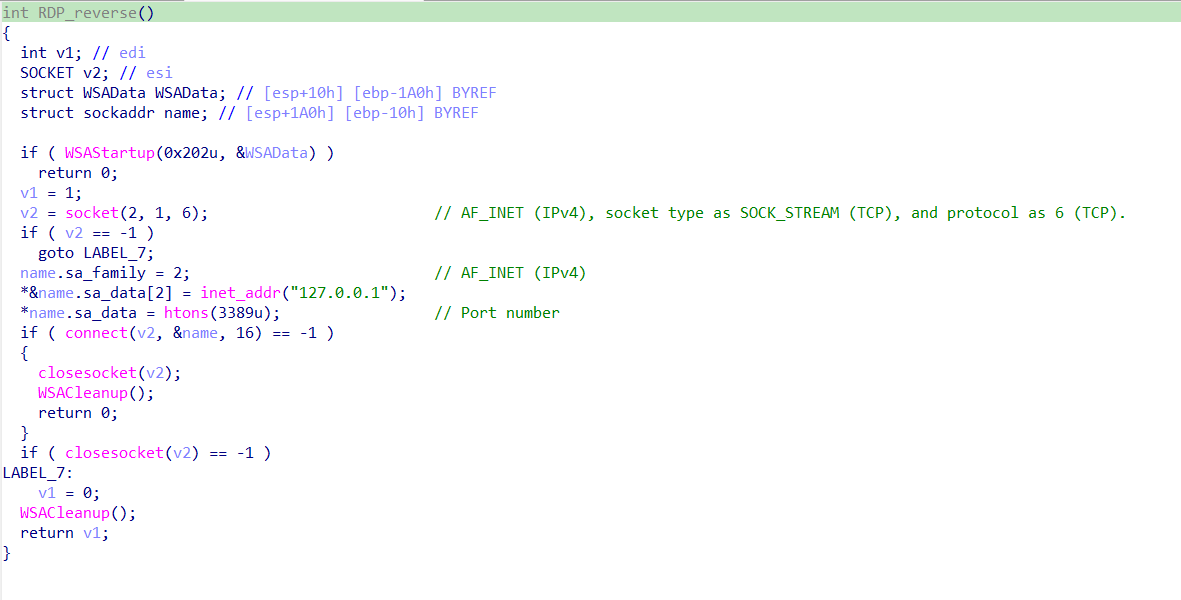
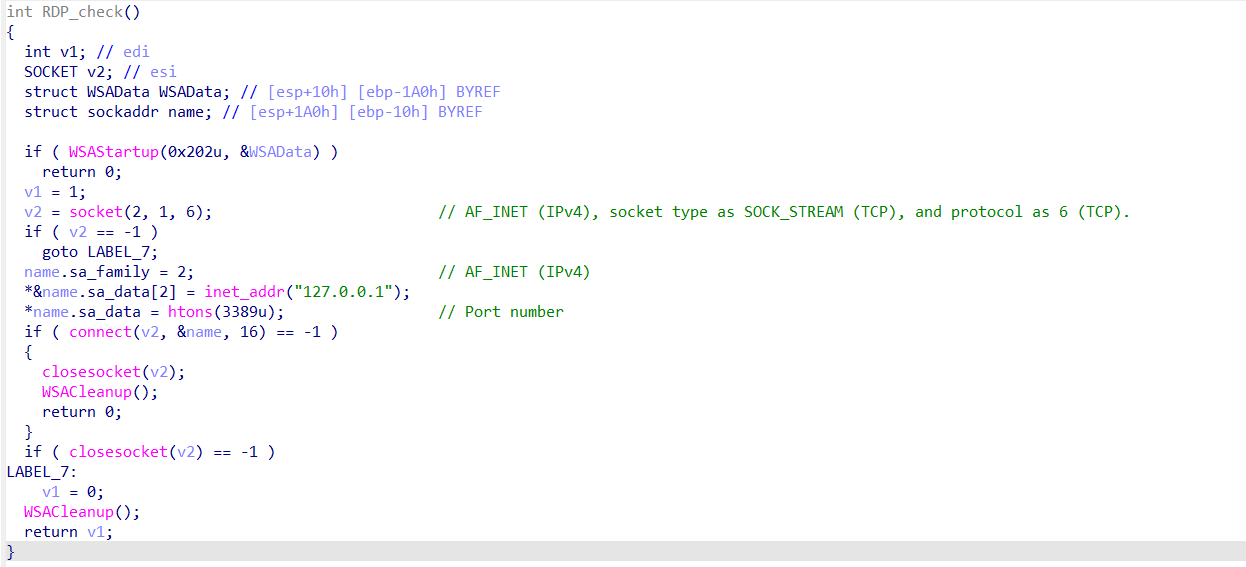
add mitter

diff --git a/_posts/Malware-analysis/2023-08-15-warzonerat.md b/_posts/Malware-analysis/2023-08-15-warzonerat.md
@@ -227,8 +227,8 @@ The malware first get value of `ServiceDll` registry inside the `SYSTEM\\Current
 <br>
 
 
-After that, the mwalware will add a new user account special properties or behaviors such as hiding the user account from login screen.\
-First, the mwalware will create this key `SOFTWARE\\Microsoft\\Windows NT\\CurrentVersion\\Winlogon\\SpecialAccounts\\UserList` and set the value of `UserList` registry to `0` to hide the user account from login screen. inside the `mw_add_user_account` (`sub_41313D`), it adds a new user account using `NetUserAdd` API and adds the user to a local group using `NetLocalGroupAddMembers` API.
+After that, the malware will add a new user account special properties or behaviors such as hiding the user account from login screen.\
+First, the malware will create this key `SOFTWARE\\Microsoft\\Windows NT\\CurrentVersion\\Winlogon\\SpecialAccounts\\UserList` and set the value of `UserList` registry to `0` to hide the user account from login screen. inside the `mw_add_user_account` (`sub_41313D`), it adds a new user account using `NetUserAdd` API and adds the user to a local group using `NetLocalGroupAddMembers` API.
 
 <p align="center">
   <img src="/assets/images/MA/warzonerat/24.png" />
@@ -261,12 +261,12 @@ Inside `sub_412B16` function, the malware continues changing the registry values
 <center><font size="3"> <u>Figure</u> Change some registry keys - sub_412B16<u></u> </font></center>
 <br>
 
-After the malware changed the settings needed, it uses `RDP_reverse` which connect the RDP to `127.0.0.1:15629`.
+After the malware changed the settings needed, it uses `RDP_check` which connect to `127.0.0.1:15629` to check if the it's working and send the return to the C2 server.
 
 <p align="center">
   <img src="/assets/images/MA/warzonerat/27.png" />
 </p>
-<center><font size="3"> <u>Figure</u> RDP reverse - sub_412510<u></u> </font></center>
+<center><font size="3"> <u>Figure</u> RDP check - sub_412510<u></u> </font></center>
 <br>
 
 
@@ -617,6 +617,13 @@ rule warzonerat_aveaariarat {
 
 - C2: `89.117.76.41:4422`
 
+# MITRE ATT&CK
+
+<p align="center">
+  <img src="/assets/images/MA/warzonerat/mittre.svg" />
+</p>
+<center><font size="3"> <u>Figure</u> MITRE ATT&CK <u></u> </font></center>
+<br>
 
 
 # Quote
